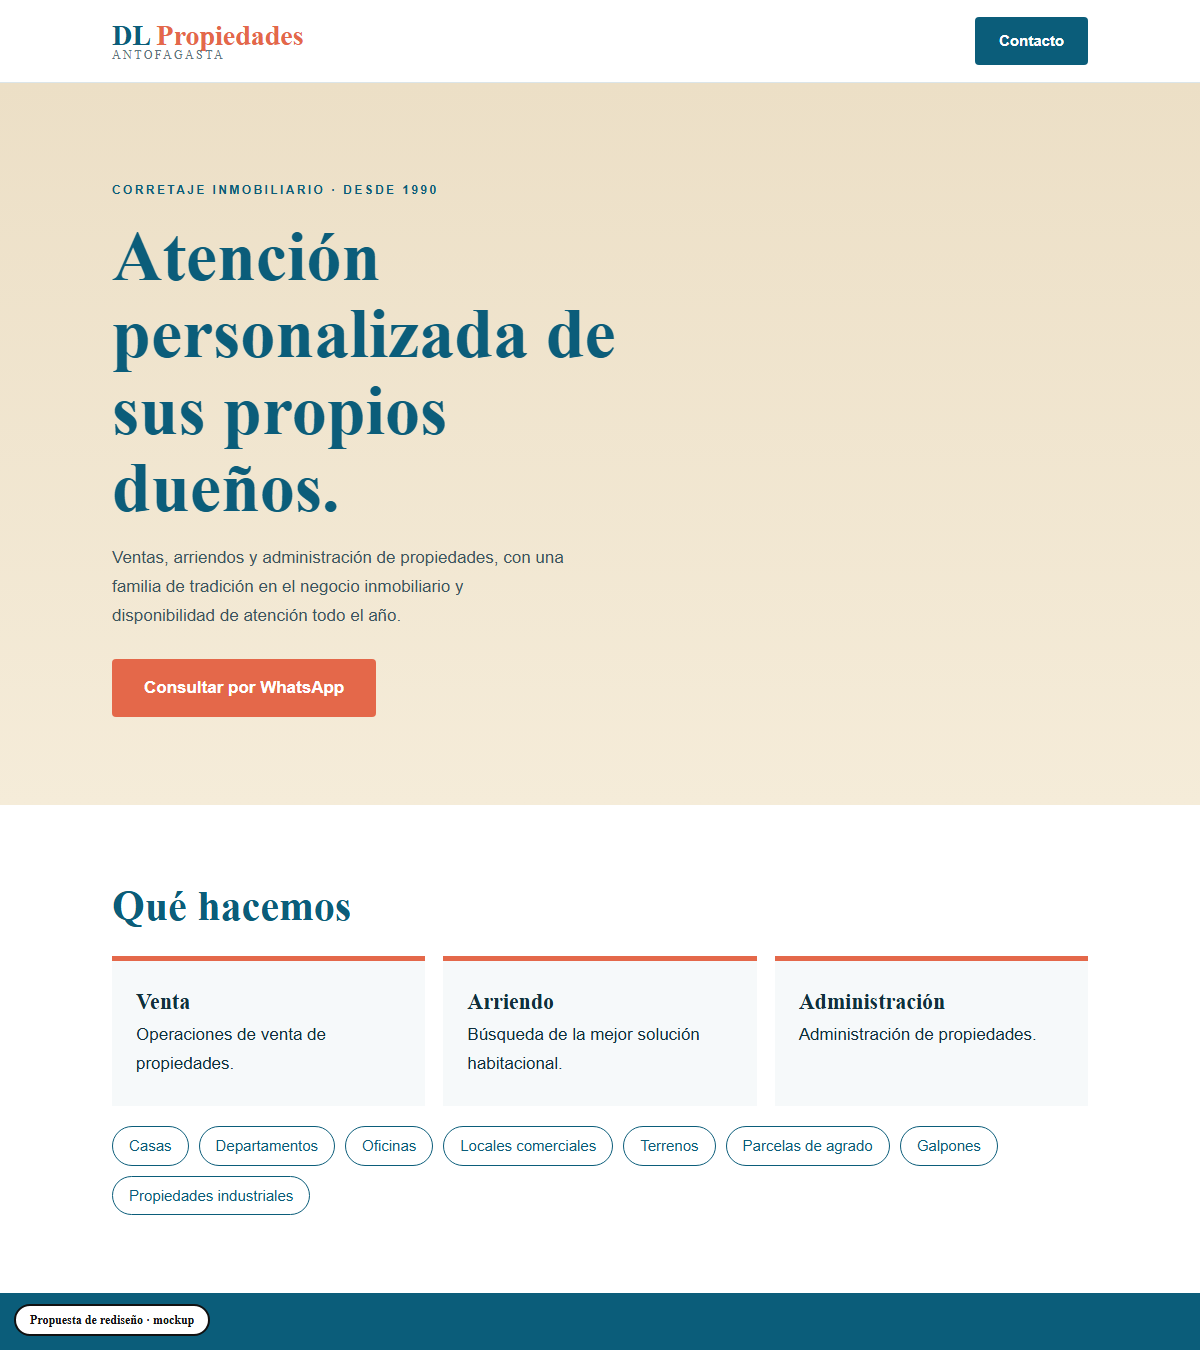
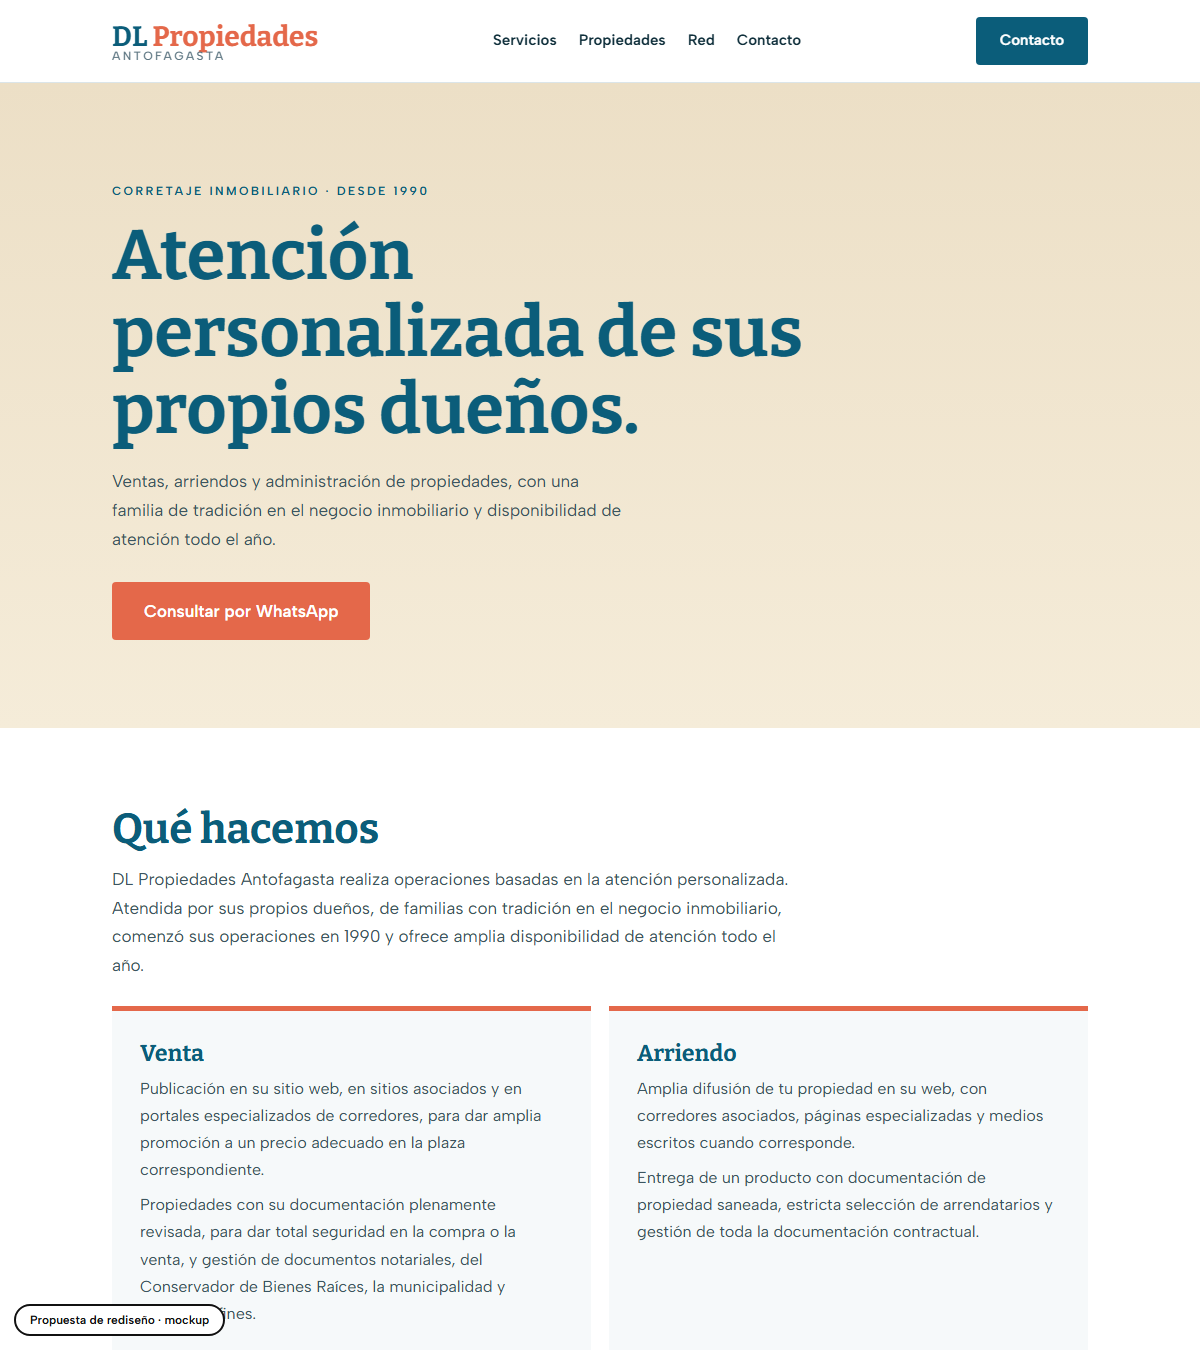
Mockup: dlpropiedades-antofagasta

Changed region(s): [[0.0, 0.1244, 1.0, 1.0], [0.0925, 0.0, 0.2775, 0.0622]]

diff --git a/dlpropiedades-antofagasta/index.html b/dlpropiedades-antofagasta/index.html
@@ -6,12 +6,12 @@
 <link href="https://fonts.googleapis.com/css2?family=Bitter:wght@500;700&family=Albert+Sans:wght@400;500;600&display=swap" rel="stylesheet">
 <style>
 :root{--sea:#0b5d7a;--sand:#ecdfc6;--coral:#e4684a;--ink:#10303c;--foam:#f6f9fa}
-*{box-sizing:border-box;margin:0}html{scroll-behavior:smooth}
+*{box-sizing:border-box;margin:0}html{scroll-behavior:smooth;scroll-padding-top:100px}
 @media(prefers-reduced-motion:reduce){html{scroll-behavior:auto}}
 body{background:#fff;color:var(--ink);font:400 17px/1.7 'Albert Sans',sans-serif}
 .wrap{max-width:1020px;margin:0 auto;padding:0 22px}
 h1,h2,h3{font-family:Bitter,serif;line-height:1.1}
-header{border-bottom:1px solid #dbe5e9}header .wrap{display:flex;justify-content:space-between;align-items:center;height:82px}
+header{position:sticky;top:0;z-index:20;border-bottom:1px solid #dbe5e9}header .wrap{display:flex;justify-content:space-between;align-items:center;height:82px}
 .brand{font:700 28px Bitter;color:var(--sea)}.brand i{font-style:normal;color:var(--coral)}.brand small{font:500 12px 'Albert Sans';letter-spacing:.2em;text-transform:uppercase;color:#5b7480;display:block;margin-top:-4px}
 header a.b{background:var(--sea);color:#fff;text-decoration:none;padding:11px 24px;font-weight:600;font-size:15px;border-radius:4px}
 header a.b:hover{background:var(--coral)}
@@ -29,13 +29,19 @@ section{padding:78px 0}h2{font-size:clamp(28px,4.2vw,42px);margin-bottom:12px;co
 .contact{text-align:center}.contact a.l{display:block;font:700 clamp(30px,5vw,54px) Bitter;color:var(--sea);text-decoration:none;margin:8px 0}
 .contact a.l:hover{color:var(--coral)}
 footer{padding:22px 0 90px;text-align:center;font-size:13px;opacity:.6}
-.mock{position:fixed;left:14px;bottom:14px;background:#fff;color:#111;border:2px solid #111;font:600 12px/1 'Albert Sans';padding:8px 14px;border-radius:30px;z-index:9}
+.mock{z-index:30;position:fixed;left:14px;bottom:14px;background:#fff;color:#111;border:2px solid #111;font:600 12px/1 'Albert Sans';padding:8px 14px;border-radius:30px;z-index:9}
 @media(max-width:780px){.sv{grid-template-columns:1fr}.hero .wrap{padding:56px 22px}}
-</style></head><body>
-<header><div class="wrap"><div class="brand">DL <i>Propiedades</i><small>Antofagasta</small></div><a class="b" href="#contacto">Contacto</a></div></header>
+nav{display:flex;gap:22px;font-size:15px;font-weight:600}nav a{color:var(--ink);text-decoration:none}nav a:hover{color:var(--coral)}.dt{display:grid;grid-template-columns:repeat(2,1fr);gap:18px;margin-top:26px}.dt>div{background:var(--foam);border-top:5px solid var(--coral);padding:30px 28px}.dt h3{font-size:23px;color:var(--sea);margin-bottom:8px}.dt p{font-size:16px;color:#3b5560;margin-bottom:8px}.pg{display:grid;grid-template-columns:repeat(4,1fr);gap:14px;margin-top:24px}.pc{background:#fff;border:1px solid #d5e2e7;border-top:5px solid var(--sea);padding:22px 20px}.pc small{font:700 12px "Albert Sans";letter-spacing:.14em;text-transform:uppercase;color:var(--coral)}.pc h3{font-size:18px;margin:6px 0 8px;color:var(--ink)}.pc p{font-size:14.5px;color:#4a6670}.ct{background:var(--sand)}.ct .who{display:flex;gap:18px;align-items:center;margin-top:16px;flex-wrap:wrap}.ct .who b{font:700 24px Bitter;color:var(--sea)}.cities{display:flex;flex-wrap:wrap;gap:8px;margin-top:18px}.cities span{background:#fff;border:1px solid #d5e2e7;border-radius:30px;padding:4px 14px;font-size:14px}@media(max-width:860px){nav{display:none}.dt{grid-template-columns:1fr}.pg{grid-template-columns:1fr 1fr}}@media(max-width:520px){.pg{grid-template-columns:1fr}}</style></head><body>
+<header><div class="wrap"><div class="brand">DL <i>Propiedades</i><small>Antofagasta</small></div><nav><a href="#servicios">Servicios</a><a href="#propiedades">Propiedades</a><a href="#red">Red</a><a href="#contacto">Contacto</a></nav><a class="b" href="#contacto">Contacto</a></div></header>
 <div class="hero"><div class="wrap"><small>Corretaje inmobiliario · Desde 1990</small><h1>Atención personalizada de sus propios dueños.</h1><p>Ventas, arriendos y administración de propiedades, con una familia de tradición en el negocio inmobiliario y disponibilidad de atención todo el año.</p><a class="btn" href="https://wa.me/56998214634?text=Hola%2C%20quisiera%20consultar%20por%20una%20propiedad">Consultar por WhatsApp</a></div></div>
-<section><div class="wrap"><h2>Qué hacemos</h2><div class="sv"><div><b>Venta</b>Operaciones de venta de propiedades.</div><div><b>Arriendo</b>Búsqueda de la mejor solución habitacional.</div><div><b>Administración</b>Administración de propiedades.</div></div><div class="types"><span>Casas</span><span>Departamentos</span><span>Oficinas</span><span>Locales comerciales</span><span>Terrenos</span><span>Parcelas de agrado</span><span>Galpones</span><span>Propiedades industriales</span></div></div></section>
-<section class="fam"><div class="wrap"><h2>Una red para encontrar rápido</h2><p>Trabajamos en conjunto con otras agencias inmobiliarias para encontrar prontamente la mejor solución habitacional a quienes confían en nosotros. Con propiedades en Antofagasta y otras ciudades de Chile.</p></div></section>
+<section id="servicios"><div class="wrap"><h2>Qué hacemos</h2><p style="max-width:64ch;color:#3b5560">DL Propiedades Antofagasta realiza operaciones basadas en la atención personalizada. Atendida por sus propios dueños, de familias con tradición en el negocio inmobiliario, comenzó sus operaciones en 1990 y ofrece amplia disponibilidad de atención todo el año.</p><div class="dt">
+<div><h3>Venta</h3><p>Publicación en su sitio web, en sitios asociados y en portales especializados de corredores, para dar amplia promoción a un precio adecuado en la plaza correspondiente.</p><p>Propiedades con su documentación plenamente revisada, para dar total seguridad en la compra o la venta, y gestión de documentos notariales, del Conservador de Bienes Raíces, la municipalidad y servicios afines.</p></div>
+<div><h3>Arriendo</h3><p>Amplia difusión de tu propiedad en su web, con corredores asociados, páginas especializadas y medios escritos cuando corresponde.</p><p>Entrega de un producto con documentación de propiedad saneada, estricta selección de arrendatarios y gestión de toda la documentación contractual.</p></div>
+<div><h3>Administración de propiedades</h3><p>Para propietarios de bienes raíces: cobro mensual de las rentas, buena relación con el arrendatario y cuidado del inmueble.</p></div>
+<div><h3>Tasaciones</h3><p>Asesoría sobre el valor comercial de tu propiedad para decidir una compra o una venta, con visita a terreno e informe de tasación detallado. También propiedades comerciales e industriales.</p></div></div></div></section>
+<section id="propiedades" style="padding-top:0"><div class="wrap"><h2>Propiedades publicadas</h2><p style="max-width:62ch;color:#3b5560">Una muestra del catálogo actual del sitio, con propiedades en Antofagasta y otras ciudades.</p><div class="pg"><div class="pc"><small>Arriendo</small><h3>Departamento 1D1B · Sector norte, Antofagasta</h3><p>50 m² · 1 dormitorio · 1 baño · 1 estacionamiento</p></div><div class="pc"><small>Arriendo</small><h3>Departamento 2D1B · Icono Antofagasta Central</h3><p>50 m² · 2 dormitorios · 1 baño · 1 estacionamiento</p></div><div class="pc"><small>Arriendo</small><h3>Departamento 3D2B · Parque Inglés, Antofagasta</h3><p>67 m² · 3 dormitorios · 2 baños · 1 estacionamiento</p></div><div class="pc"><small>Arriendo</small><h3>Oficina · Centro de Antofagasta</h3><p>98 m² · 5 ambientes · 2 baños · 1 estacionamiento</p></div><div class="pc"><small>Venta</small><h3>Casa 2D1B · Sector norte, Antofagasta</h3><p>60 m² · casa de 2 pisos · 2 dormitorios · 1 baño</p></div><div class="pc"><small>Venta</small><h3>Departamento 3D2B · Avda. del Mar, La Serena</h3><p>90 m² · 3 dormitorios · 2 baños · 1 estacionamiento</p></div><div class="pc"><small>Venta</small><h3>Casa con local comercial · La Serena</h3><p>107 m² · 3 dormitorios · 2 baños · patente de local</p></div><div class="pc"><small>Venta</small><h3>Casa comercial y habitacional · Calama</h3><p>Local comercial en el primer piso</p></div></div><div class="types" style="margin-top:22px"><span>Casas</span><span>Departamentos</span><span>Oficinas</span><span>Locales comerciales</span><span>Terrenos</span><span>Parcelas de agrado</span><span>Galpones</span><span>Propiedades industriales</span></div></div></section>
+<section class="fam" id="red"><div class="wrap"><h2>Una red para encontrar rápido</h2><p>Trabajan en conjunto con otras agencias inmobiliarias para encontrar prontamente la mejor solución habitacional a quienes confían en ellos.</p><div class="cities"><span style="color:#0b3a4a">Antofagasta</span><span style="color:#0b3a4a">Calama</span><span style="color:#0b3a4a">Mejillones</span><span style="color:#0b3a4a">La Serena</span><span style="color:#0b3a4a">Coquimbo</span><span style="color:#0b3a4a">Viña del Mar</span><span style="color:#0b3a4a">Santiago</span></div></div></section>
+<section class="ct"><div class="wrap"><h2>Quién te atiende</h2><div class="who"><b>Luz María Reyes Torres</b><span>Corredora de propiedades</span></div></div></section>
 <section class="contact" id="contacto"><div class="wrap"><h2>Hablemos de tu propiedad</h2><a class="l" href="https://wa.me/56998214634">+56 9 9821 4634</a><p>(55) 2 989 753 · Gral. Manuel Baquedano 239, Antofagasta<br><a style="color:var(--sea)" href="mailto:contacto@dlpropiedades.cl">contacto@dlpropiedades.cl</a></p></div></section>
 <footer>DL PROPIEDADES LTDA. · ANTOFAGASTA</footer>
 <div class="mock">Propuesta de rediseño · mockup</div></body></html>
